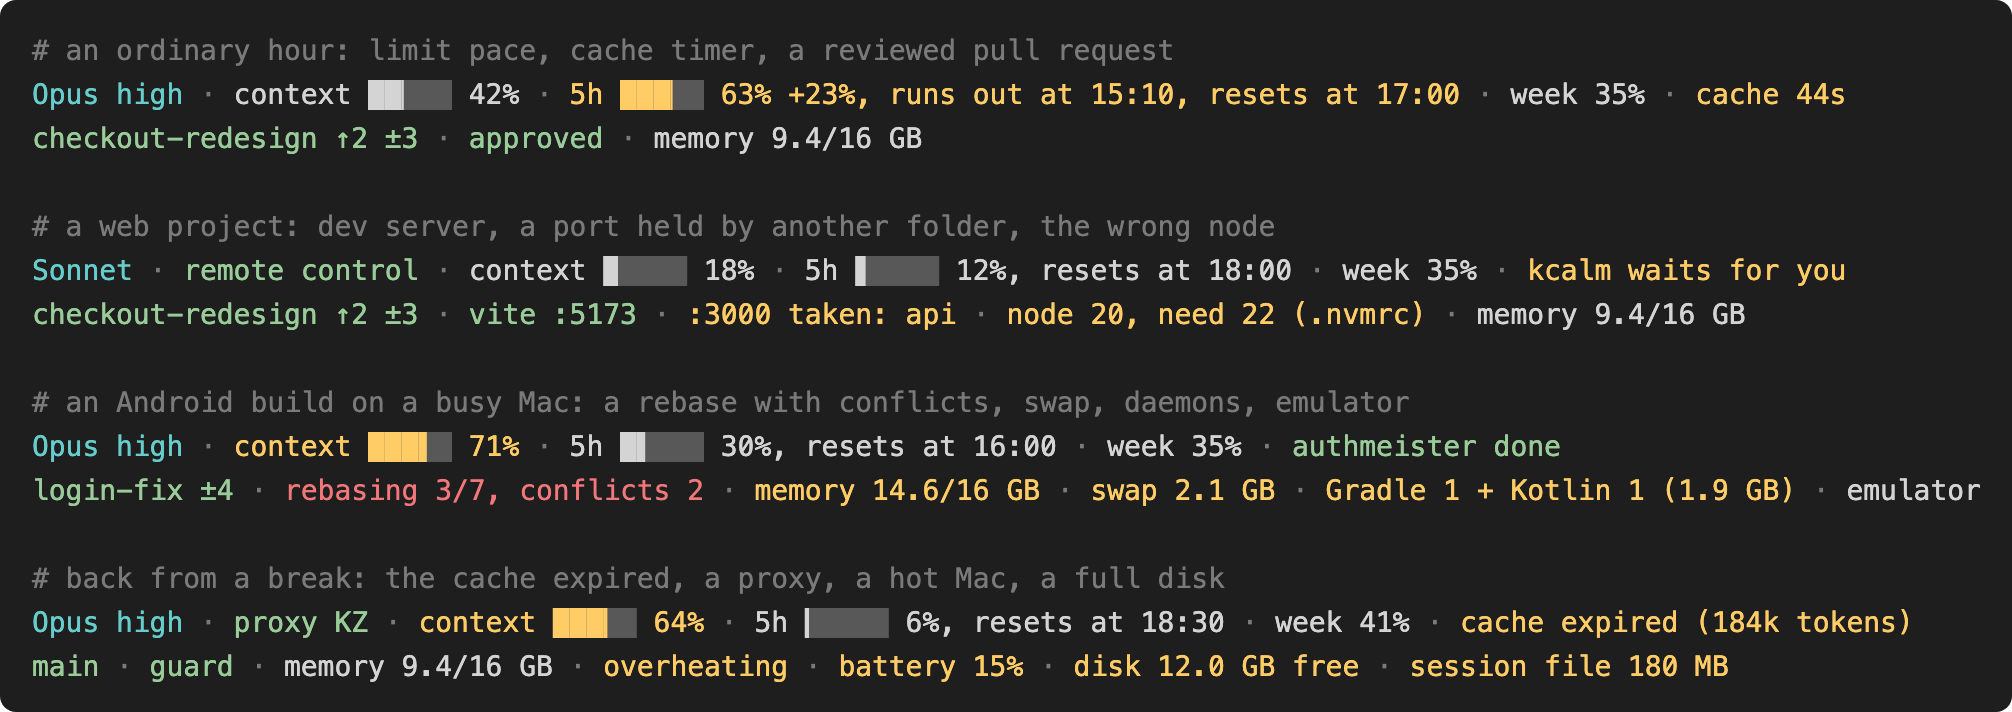
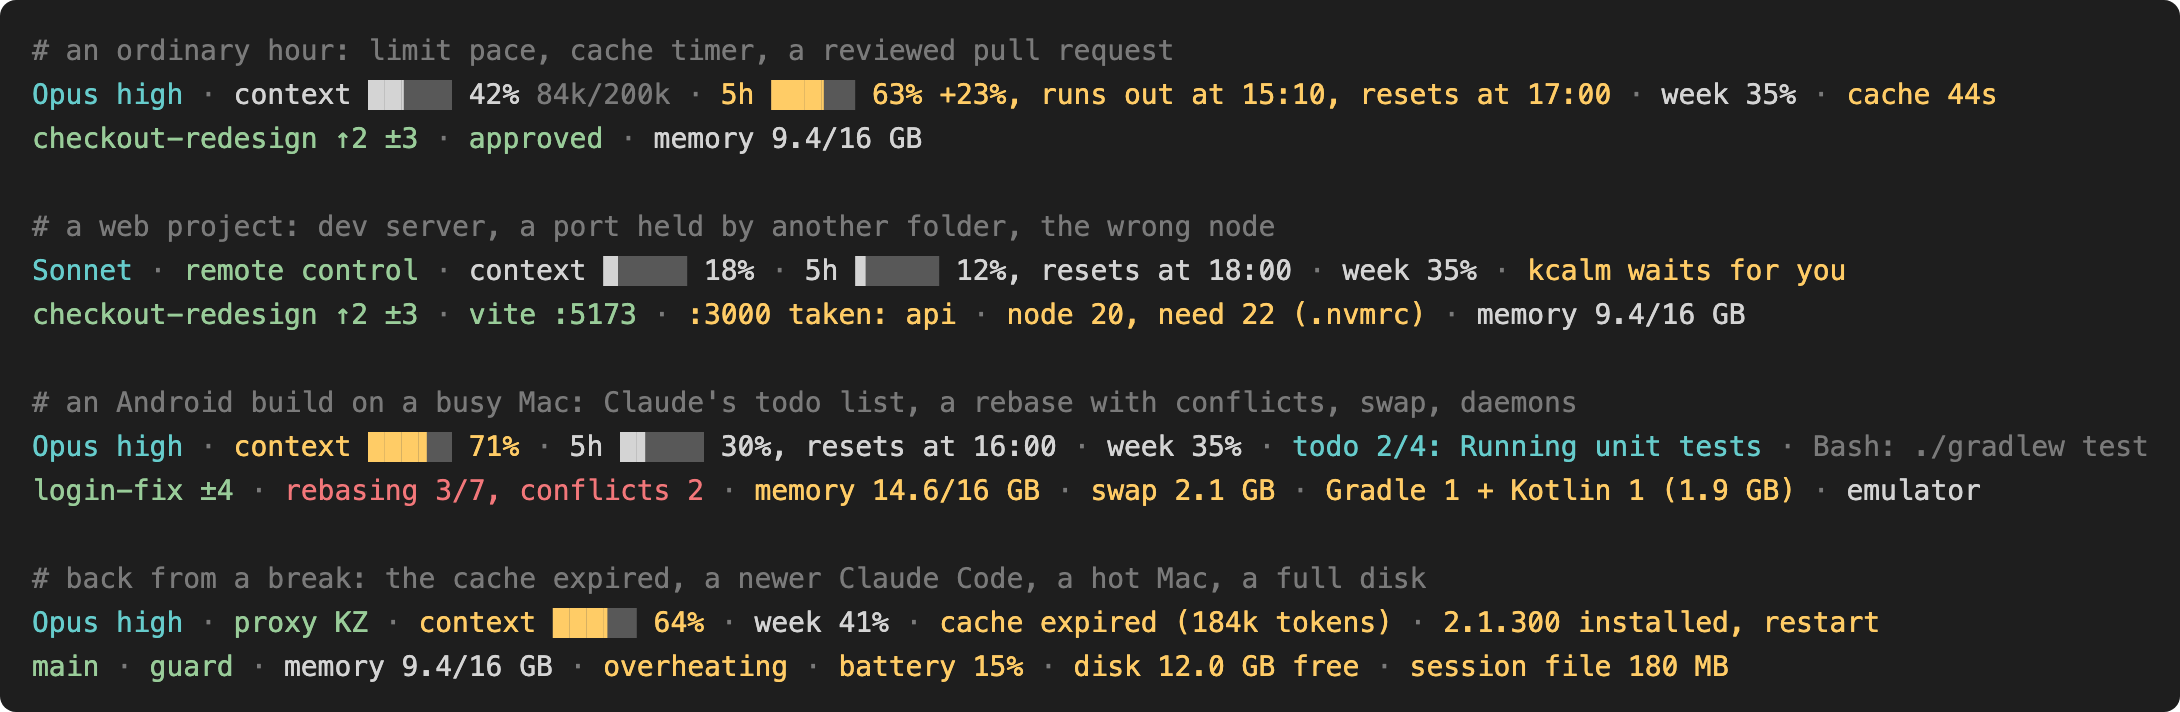
Document the new parts and show them in the preview
The README describes the session name, modes, context tokens, cache health,
TodoWrite progress and running tool, the newer-Claude-Code hint, lines and
time, and the subagent rows, and the privacy section now mentions the
transcript tail, claude --version and the background refresh. The preview
scenes show the token counts, the todo list with its running tool, and the
restart hint, and stay within about 130 columns.

diff --git a/docs/preview.py b/docs/preview.py
@@ -43,7 +43,9 @@ BASE = {
 SCENES = [
     {"caption": {"en": "an ordinary hour: limit pace, cache timer, a reviewed pull request",
                  "ru": "обычный час: темп лимита, таймер кэша, PR с одобрением"},
-     "data": {"pr": {"url": "https://github.com/acme/shop/pull/42", "review_state": "approved"}}},
+     "data": {"pr": {"url": "https://github.com/acme/shop/pull/42", "review_state": "approved"},
+              "context_window": {"used_percentage": 42, "total_input_tokens": 84000,
+                                 "context_window_size": 200000}}},
     {"caption": {"en": "a web project: dev server, a port held by another folder, the wrong node",
                  "ru": "веб-проект: dev-сервер, порт занят другой папкой, не та версия node"},
      "data": {"model": {"display_name": "Sonnet"}, "effort": None, "context_window": {"used_percentage": 18},
@@ -57,9 +59,10 @@ SCENES = [
               "node": {"key": "node", "have": 20, "need": "22", "source": ".nvmrc"},
               "sessions": [{"sessionId": "demo", "bridgeSessionId": "session_01demo", "status": "busy"},
                            {"sessionId": "other", "name": "kcalm", "status": "waiting"}]}},
-    {"caption": {"en": "an Android build on a busy Mac: a rebase with conflicts, swap, daemons, emulator",
-                 "ru": "сборка Android на загруженном Mac: rebase с конфликтами, swap, демоны, эмулятор"},
-     "data": {"context_window": {"used_percentage": 71}, "prompt_cache": None,
+    {"caption": {"en": "an Android build on a busy Mac: Claude's todo list, a rebase with conflicts, swap, daemons",
+                 "ru": "сборка Android на загруженном Mac: задачи Claude, rebase с конфликтами, swap, демоны"},
+     "activity": {"todo": {"done": 2, "total": 4, "now": "Running unit tests"}, "tool": "Bash: ./gradlew test"},
+     "data": {"context_window": {"used_percentage": 71}, "prompt_cache": None, "transcript_path": "/work/demo.jsonl",
               "rate_limits": {"five_hour": {"used_percentage": 30, "resets_at": NOW + 2 * 3600},
                               "seven_day": {"used_percentage": 35, "resets_at": NOW + 4 * 86400}}},
      "demo": {"project": {"root": "/work/app", "kinds": ["mobile"], "ports": [], "node_dir": None,
@@ -67,15 +70,12 @@ SCENES = [
               "git": {"branch": "(detached)", "ahead": 0, "behind": 0, "upstream": False, "changed": 4, "conflicts": 2},
               "machine": {"total": 16 * ps.GB, "used": 14.6 * ps.GB, "swap": 2.1 * ps.GB, "gradle": 1, "kotlin": 1,
                           "daemon_mem": 1.9 * ps.GB, "sims": 0, "emulator": True},
-              "sessions": [{"sessionId": "demo", "status": "busy"},
-                           {"sessionId": "done", "name": "authmeister", "status": "idle",
-                            "statusUpdatedAt": (NOW - 120) * 1000, "startedAt": (NOW - 3600) * 1000}]},
+              "sessions": [{"sessionId": "demo", "status": "busy"}]},
      "git_op": {"op": "rebase", "branch": "login-fix", "step": "3/7"}},
-    {"caption": {"en": "back from a break: the cache expired, a proxy, a hot Mac, a full disk",
-                 "ru": "после перерыва: кэш истек, прокси, Mac греется, диск почти полон"},
-     "data": {"context_window": {"used_percentage": 64},
-              "rate_limits": {"five_hour": {"used_percentage": 6, "resets_at": NOW + 4.5 * 3600},
-                              "seven_day": {"used_percentage": 41, "resets_at": NOW + 4 * 86400}},
+    {"caption": {"en": "back from a break: the cache expired, a newer Claude Code, a hot Mac, a full disk",
+                 "ru": "после перерыва: кэш истек, вышел новый Claude Code, Mac греется, диск почти полон"},
+     "data": {"context_window": {"used_percentage": 64}, "version": "2.1.293",
+              "rate_limits": {"seven_day": {"used_percentage": 41, "resets_at": NOW + 4 * 86400}},
               "prompt_cache": {"caching_observed": True, "warm": False, "ttl": "5m", "requests": 40,
                                "recache_tokens_if_cold": 184000},
               "transcript_path": "/work/demo.jsonl"},
@@ -95,7 +95,7 @@ def scene_lines(scene, lang):
     ps.OPTS.update({"lang": lang, "ascii": False, "color": True, "links": True})
     demo = dict(BASE_DEMO, **scene.get("demo", {}))
     data = {k: v for k, v in dict(BASE, **scene.get("data", {})).items() if v is not None}
-    saved = {name: getattr(ps, name) for name in ("cached", "git_op", "badges")}
+    saved = {name: getattr(ps, name) for name in ("cached", "git_op", "badges", "transcript_activity", "peek")}
     saved_env = {k: os.environ.pop(k, None) for k in ("HTTPS_PROXY", "https_proxy", "ALL_PROXY", "all_proxy",
                                                        "PROMPTSILL_PROXY_LABEL", "PROMPTSILL_PROXY_DETAIL",
                                                        "PROMPTSILL_PROXY_URL")}
@@ -104,6 +104,8 @@ def scene_lines(scene, lang):
     ps.cached = lambda name, ttl, fn, background=False: demo[name.split("-")[0]]
     ps.git_op = lambda git_dir: scene.get("git_op")
     ps.badges = lambda d, cwd, now=None: list(scene.get("badges", []))
+    ps.transcript_activity = lambda path: scene.get("activity", {})
+    ps.peek = lambda name, ttl: "2.1.300" if name == "claude" else None
     real = ps.time.time
     ps.time.time = lambda: NOW
     try:

diff --git a/README.md b/README.md
@@ -4,10 +4,10 @@
 
 A status line for [Claude Code](https://code.claude.com) that knows about your dev machine, not just your session.
 
-<a href="docs/preview-en.png"><img src="docs/preview-en.svg" alt="promptsill status line in four situations. An ordinary hour: limit pace, cache timer, an approved pull request. A web project: Remote Control, a session waiting for you, a dev server, a port held by another folder, the wrong node version. An Android build on a busy Mac: a rebase with conflicts, memory, swap, Gradle and Kotlin daemons, the emulator, another session done. Back from a break: a proxy, an expired cache, a guard badge, overheating, low battery, low disk, a large session file"></a>
+<a href="docs/preview-en.png"><img src="docs/preview-en.svg" alt="promptsill status line in four situations. An ordinary hour: context with token counts, limit pace, cache timer, an approved pull request. A web project: Remote Control, a session waiting for you, a dev server, a port held by another folder, the wrong node version. An Android build on a busy Mac: Claude's todo progress and running tool, a rebase with conflicts, memory, swap, Gradle and Kotlin daemons, the emulator. Back from a break: a proxy, an expired cache, a newer Claude Code installed, a guard badge, overheating, low battery, low disk, a large session file"></a>
 
 ```text
-Opus high · context ██▏   42% · 5h ███▏  63% +23%, runs out at 15:10, resets at 17:00 · week 35% · cache 44s
+Opus high · context ██▏   42% 84k/200k · 5h ███▏  63% +23%, runs out at 15:10, resets at 17:00 · week 35% · cache 44s
 checkout-redesign ↑2 ±3 · approved · memory 9.4/16 GB
 ```
 
@@ -32,15 +32,31 @@ The second line is about the project you're in and the machine it runs on. Apart
 The first line is about Claude Code itself.
 
 - **Model, effort and fast mode.** `Opus xhigh fast`. On a narrow terminal only the model name stays.
-- **Context** as a bar with 1/8-cell precision.
+- **Session name** from `--name`, `/rename` or Claude's own title, so parallel sessions are easy to tell apart.
+- **Modes that differ from a plain session:** the vim mode (`NORMAL`, `INSERT`), `agent security-reviewer` when started with `--agent`, `style Explanatory` for a custom output style, and `thinking off`. `install` sets `hideVimModeIndicator`, so the vim mode isn't shown twice.
+- **Context** as a bar with 1/8-cell precision, followed by the tokens in the window and its size: `42% 420k/1M`. With a 1M window the percentage alone hides how much room is left.
 - **Limit pace.** For the 5-hour and weekly limits, promptsill compares how much you've used with how much of the window has passed. 60% in the first hour of five is a problem; 60% in the last hour is fine. Colors follow the pace, not the raw percentage. `+23%` means you're 23 points ahead of an even pace, and `runs out at 15:10` says when you'll hit the limit if you keep going like this.
 - **Spend limit** behind a Claude gateway that sets one: `spend $12/$50`, or a percentage when the gateway doesn't report dollars. Colored by the same pace as the other limits when the gateway says whether the period is a day, a week or a month.
 - **Prompt cache timer.** `cache 44s` shortly before the cache expires, and `cache expired (184k tokens)` after it has. The next message after expiry re-reads the whole conversation, here 184k tokens, which costs more of your limit; from 100k up it turns yellow. When the cache was rebuilt for another reason, promptsill says why for five minutes: `cache reset: tools changed`, `system prompt changed`, `model changed`, `history rewritten` or `server side`.
 - **Remote Control.** `remote control` while the session is reachable from claude.ai or the Claude app, clickable to open it there. Claude Code doesn't pass this to status lines, so promptsill reads it from Claude Code's own session files in `~/.claude/sessions/`. That's an internal format; if a future version changes it, the label just stops appearing.
 - **Proxy.** `proxy KZ` when the session's network goes through a proxy (`HTTPS_PROXY` or `ALL_PROXY` in the environment Claude Code runs with), red `proxy KZ down` when a proxy on this machine stops answering. The country comes from `PROMPTSILL_PROXY_LABEL`, which the tool that starts the proxy sets after checking the exit; promptsill itself makes no requests to find it out. Without the variable it just says `proxy`. `PROMPTSILL_PROXY_DETAIL` (say `vless 203.0.113.7`) and `PROMPTSILL_PROXY_URL` (an `http(s)://` or `file://` page about the exit) are optional. In a terminal that can click links the label links to that page and the detail stays off the line; in macOS Terminal, with `links` off or without a URL, the detail goes right after the label.
+- **Cache health.** `cache hits 72%, 2 misses` once cache reads drop under 80% of the input or three requests have missed, yellow, red under 50%. A cache that keeps missing burns the limit with nothing else on screen.
+- **What Claude is doing.** `todo 1/3: Running tests` while a TodoWrite list is open, and the tool call still waiting for its result, dimmed: `Bash: Run the test suite`, `Edit: app.py`, `github: create_pull_request`. promptsill reads the last 512 KB of the transcript for this.
+- **A newer Claude Code.** `2.1.300 installed, restart` when `claude --version` is newer than the version the session runs. The check runs in the background once an hour, never while the line is drawn.
+- **Lines and time.** `+156 −23` lines changed and how long the session has run, `2h 15m`. The first to go on a narrow terminal.
 - **Your other sessions.** `kcalm waits for you` when another Claude Code session on this machine is stuck on a permission prompt or a question, and `authmeister done` for ten minutes after one finishes its turn. Three or more are counted: `3 sessions wait for you`. This also comes from `~/.claude/sessions/`.
 
-When the terminal is narrow, promptsill shortens the parts first, then drops the least important ones. The limits, context and branch stay.
+When the terminal is narrow, promptsill shortens the parts first, then drops the least important ones. The limits, context and branch stay. CJK characters and emoji count as two columns.
+
+## Subagent rows
+
+Claude Code lists running subagents below the prompt. `install` also sets `subagentStatusLine`, and promptsill draws those rows:
+
+```text
+Explore · Find config files · Sonnet 5.5 high · 1m · ▁▄█ 68k 34%
+```
+
+That is who, what it is doing, the model and effort, how long it has run, a sparkline of its last token counts and its share of its context window, colored like the main context bar. Finished tasks say `done`, `failed` or `stopped`. When the panel is narrow, the description is cut first. If another tool already owns `subagentStatusLine`, `install` leaves it alone.
 
 ## Install
 
@@ -77,6 +93,7 @@ promptsill is a single Python file with no dependencies. It needs `python3` 3.9 
 promptsill install [--force] [--lang en|ru]   add the statusLine to ~/.claude/settings.json
 promptsill uninstall                          remove it, and bring back the one it replaced
 promptsill preview [--lang en|ru] [--width N] render sample data for the current folder
+promptsill subagents [--lang en|ru]           rows for the agent panel, set up by install
 promptsill badge set|clear|list ...           labels from hooks and scripts, see below
 promptsill --version
 ```
@@ -131,7 +148,7 @@ Names may contain letters, digits, `.`, `_` and `-`. Prefix them with your tool'
 
 ## Privacy
 
-promptsill runs locally and makes no network requests. It reads the JSON Claude Code sends it, the badge files and Claude Code's list of running sessions, runs `git status`, `lsof`, `ps` and `pmset`, and keeps a few seconds of cache in `~/.cache/promptsill`.
+promptsill runs locally and makes no network requests. It reads the JSON Claude Code sends it, the badge files, Claude Code's list of running sessions and the end of the session transcript, runs `git status`, `lsof`, `ps`, `pmset` and once an hour `claude --version`, and keeps a short cache in `~/.cache/promptsill`. Slow parts of it are refreshed by a detached `promptsill _refresh` process, so drawing the line never waits for them.
 
 ## Development
 
